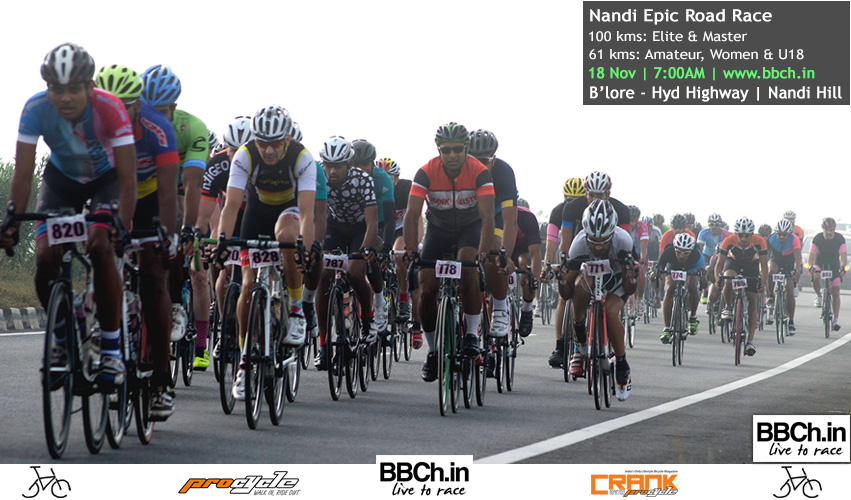
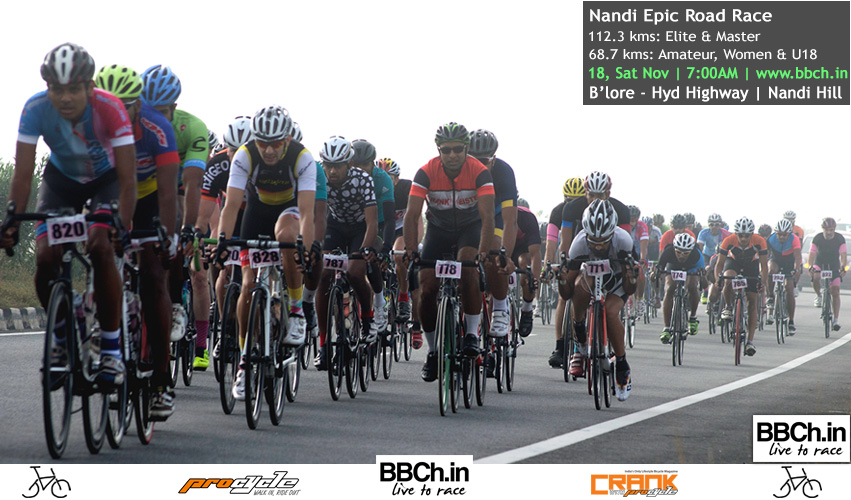
nandi update
nandi page update

Changed region(s): [[0.7027, 0.06, 1.0, 0.18]]

diff --git a/BBCh17Race10.htm b/BBCh17Race10.htm
@@ -169,7 +169,7 @@
                  <div class="clear">
                 </div>
                 <div align="center">
-                    <img alt="BBCh16:10 Nandi Banner" src="Images/BBCh17Race10Banner.jpg" style="border: 0" />
+                    <img alt="BBCh17:10 Nandi Banner" src="Images/BBCh17Race10Banner.jpg" style="border: 0" />
                 </div>
                 <br />
                 <div style="width: 48%; float: left">
@@ -182,15 +182,15 @@
                         <a href="https://goo.gl/maps/GBFAsT2ypyG2" target="_blank">Bangalore - Hyderabad Highway | Opp. HP Petrol Bunk & CCD</a><br />
                     <span class="CaptionText">Reporting Time : </span>6:00AM<br /><br />
 
-                    <span class="CaptionText">**Race Distance : </span>100km<br />
+                    <span class="CaptionText">**Race Distance : </span>112.3km<br />
                     <span class="CaptionText" style="padding-left: 40px">Categories :</span> Elite & Masters<br />
                     <span class="CaptionText" style="padding-left: 40px">Race Start :</span> 7:00AM<br />
-                    <span class="CaptionText" style="padding-left: 40px">Cut-off Time :</span> 11:00AM / 240 Mins<br /><br />
+                    <span class="CaptionText" style="padding-left: 40px">Cut-off Time :</span> 11:30AM / 270 Mins<br /><br />
 
-                    <span class="CaptionText">**Race Distance : </span>61km<br />
+                    <span class="CaptionText">**Race Distance : </span>68.7km<br />
                     <span class="CaptionText" style="padding-left: 40px">Categories :</span> U-18, Women & Amateur<br />
                     <span class="CaptionText" style="padding-left: 40px">Race Start :</span> 7:10AM<br />
-                    <span class="CaptionText" style="padding-left: 40px">Cut-off Time :</span> 11:00AM / 230 Mins<br /><br />
+                    <span class="CaptionText" style="padding-left: 40px">Cut-off Time :</span> 11:30AM / 260 Mins<br /><br />
                     
                     <span class="CaptionText">Race Fee : </span>Online -INR 500/- (NO Spot Registration)<br />
                     <br />
@@ -205,15 +205,15 @@
                 <!--<div style="width: 50%; float: left">
                     <span class="CaptionText2">Awesome Sponsors & Partners</span>
                     <img alt="Sponsor Banner" src="Images/BBCh16_Race06_SP_Road_Banner.gif" style="box-shadow: 0px 0px 10px #888888" />
-                </div>
-                 <div class="clear">-->
+                </div>-->
+                 <div class="clear">
                 </div>
                     <span style="letter-spacing: 1px">
                         <h5><b>Note: Registration will be closed by Wednesday, 15th (Midnight)</b></h5>
                     </span>
                     
                     <p>
-                    The last road race of the awesome Bangalore Bicycle Championships 2017 season is going with a Nandi Epic 100km & 61Km
+                    The last road race of the awesome Bangalore Bicycle Championships 2017 season is going with a Nandi Epic 112.3km & 68.7Km
                     Road Race on NH-7 Bangalore - Hydrabad Highway.<br />
                     <br />
                     Get your race face on people and get ready for a rocking at the Bangalore
@@ -238,7 +238,7 @@
                     <b>* Master (Open for Men and Women)<br /></b>
                         Participants age should be 40 years and above as on race day. Riders are free to 
                         participate in Elite/Amateur category if they wish to. <br />
-                        Masters category is for anybody who is above 35 years of age 
+                        Masters category is for anybody who is above 40 years of age 
                         irrespective of gender.<br />
 
                     <b>* Women<br /></b>
@@ -264,7 +264,7 @@
                 <br />
                 <p>
                     <span class="CaptionText">PRE-RACE DETAILS</span><br />
-                    The race will start at 7am. Get to the venue at 6am. Make sure you pre-register
+                    The race will start at 7AM. Get to the venue at 6AM. Make sure you pre-register
                     and digitally sign your indemnity form online, so you just have to collect your
                     bib numbers on race day. The start will be a little past the Airport toll
                     gate and finish will be a Nandi Hill Gate.
@@ -274,16 +274,16 @@
                     Race HQ is 3 km from the airport toll gate. Take a left from oppsite to Cafe Coffee Day and HP 
                     petrol bunk for Century Sports Village where bib collection, pre-race briefing and staging 
                     will take place. Cars can be parked in the service lane.<br />
-                    Podium will be at Nandi base by 11:30 AM.
+                    Podium will be at Nandi base by 12:00 PM.
                     </p>
                     <hr />
                 <p>
-                    <span class="CaptionText">100km Course Description</span><br /><br />
+                    <span class="CaptionText">112.3km Course Description</span><br /><br />
 
                     <span class="CaptionText">THE WAY OUT</span><br />
 
 
-                    The race rolls north on NH-7, past a couple intersections that will be marshaled. After 37 km of 
+                    The race rolls north on NH-7, past a couple intersections that will be marshaled. After 48.5 km of 
                     rolling terrain, some really long flyovers, exposed highway, and south-westerly crosswinds to deal 
                     with, the race "descends" 8 km, on straight and fast highway, to the U-turn point. The U-turn will 
                     be marshaled and will have a neutral feed station.
@@ -302,15 +302,15 @@
                     summit of Nandi II is steeper, includes some steep switchbacks and kicks to the finish!
                     <br /><br />
                     
-                    <span class="CaptionText">The Route : 100km</span><br />
+                    <span class="CaptionText">The Route : 112.3km</span><br />
                     Here’s the route for the Nandi Epic Road Race.<br />
-                    <a href="http://app.strava.com/activities/334527919" target="_blank">http://app.strava.com/activities/334527919
+                    <a href="https://connect.garmin.com/modern/activity/2155712058" target="_blank">https://connect.garmin.com/modern/activity/2155712058
                     </a>
                     <br />
                     <br />
                     <span align="center">
-                        <a href="http://app.strava.com/activities/334527919" target="_blank">
-                            <img alt="" src="Images/StravaNandi100kmRoute2015.jpg" style="border: 0" />
+                        <a href="https://connect.garmin.com/modern/activity/2155712058" target="_blank">
+                            <img alt="" src="Images/StravaNandi112kmRoute2017.jpg" style="border: 0" />
                         </a>
                     </span>
                     <br />
@@ -319,22 +319,21 @@
                 </p>
                     <hr />
                 <p>
-                    <span class="CaptionText">61 km Course Description</span><br /><br />
+                    <span class="CaptionText">68.7 km Course Description</span><br /><br />
 
                     <span class="CaptionText">THE WAY OUT</span><br />
 
-                    The race rolls north on NH-7, past a couple intersections that will be marshaled. After 23.5 km of 
+                    The race rolls north on NH-7, past a couple intersections that will be marshaled. After 25.9 km of 
                     rolling terrain, some really long flyovers, exposed highway, and south-westerly crosswinds to deal 
                     with, and fast highway, to the U-turn point. The U-turn will be marshaled with whistle and will have a neutral 
                     feed station.<br />
 
-                    This U-turn is 5 km into the Chikkaballapur bypass and U-turn point is a median gap. 
-                    Watch out for traffic.
+                    This U-turn is 7.2 km into the Chikkaballapur underpass and take U-turn point under the flyover/underpass.
 
                     <br /><br />
 
                     <span class="CaptionText">THE WAY BACK</span><br />
-                    The race continues to go south 17.8km until the marshaled right-hander that has you Nandi crossing 
+                    The race continues to go south 20.5km until the marshaled right-hander that has you Nandi crossing 
                     the highway and put riders on the approach to Nandi. Here, you have to deal with a block headwind, 
                     a railway crossing, a series of low speed humps and a false-flat all the way to the base of 
                     the climb.<br /><br />
@@ -345,11 +344,11 @@
                     summit of Nandi II is steeper, includes some steep switchbacks and kicks to the finish!
                     <br /><br />
 
-                    <span class="CaptionText">The Route : 61km</span><br />
+                    <span class="CaptionText">The Route : 68.7km</span><br />
                     Here’s the route for the Nandi Epic Road Race.<br />
-                    <!--<a href="http://app.strava.com/activities/334527919" target="_blank">http://app.strava.com/activities/334527919
+                    <a href="https://www.strava.com/activities/1239764132" target="_blank">https://www.strava.com/activities/1239764132
                     </a>
-                    <br />-->
+                    <br />
                     <br />
                     <span align="center">
                         <a href="#" target="_blank">
@@ -445,38 +444,38 @@
                     <tr>
                         <td colspan="2" style="padding-left: 10px">
                             <span class="CaptionText">
-                            61km | Points of caution from start-point for Amateur, Women & U-18</span>
+                            68.7km | Points of caution from start-point for Amateur, Women & U-18</span>
                         </td>
                     </tr>
                     <tr>
                         <td colspan="2" style="line-height: 150%">
                             
                             The race rolls north on NH-7, past a couple intersections that will be marshaled. 
-                            After 23.5 km of rolling terrain the U-turn will be marshaled and will have a neutral feed station for 
+                            After 25.9 km of rolling terrain the U-turn will be marshaled and will have a neutral feed station for 
                             Amateur, Women and U-18.<br /><br />
 
                             <span class="CaptionText">
-                            @ 23.5km The U-turn will be marshaled and will have a neutral feed station.</span><br />
+                            @ 25.9km The U-turn will be marshaled and will have a neutral feed station.</span><br />
                             <div style="width: 350px; float: left">
                             <img alt="" src="Images/RaceInfo02_006.jpg" style="border: 0" />&nbsp;&nbsp;&nbsp;&nbsp;
                             </div>
                             <div style="width: 350px; float: left">
                             </div>
                             <div class="clear"></div>
-                            @ 41.38km Nandi Hill crossing with traffic crossing, take right.<br /> 
-                            @ 50.3km take left for Nandi base. <br />
-                            @ 54.3km Nandi base. <br />
+                            @ 48 km Nandi Hill crossing with traffic crossing, take right.<br /> 
+                            @ 58 km take left for Nandi base. <br />
+                            @ 61.4 km Nandi base. <br />
                             <br />
 
                             <span class="CaptionText">
-                            @ 61km - Finish Line</span><br />
+                            @ 68.7 km - Finish Line</span><br />
                             <div align="left" style="width: 800px; float: left; padding-left: 50px">
                             <img alt="" src="Images/RaceInfo05_004.jpg" style="border: 0" />
                             </div>
                             <div class="clear"></div><br />
 
                             <span class="CaptionText">
-                            @ 11:30 O'Clock - Podium</span><br />
+                            @ 12:00 O'Clock - Podium</span><br />
                             <div align="left" style="width: 800px; float: left; padding-left: 50px">
                             <img alt="" src="Images/RaceInfo02_008.jpg" style="border: 0" />
                             </div>
@@ -486,18 +485,18 @@
                     <tr>
                         <td colspan="2" style="padding-left: 10px">
                             <span class="CaptionText">
-                            100km | Points of caution from start-point for Elite & Masters</span>
+                            112.3km | Points of caution from start-point for Elite & Masters</span>
                         </td>
                     </tr>
                     <tr>
                         <td colspan="2" style="line-height: 150%">
-                            The race rolls north on NH-7, past a couple intersections that will be marshaled. After 37 km of 
+                            The race rolls north on NH-7, past a couple intersections that will be marshaled. After 40 km of 
                             rolling terrain, some really long flyovers, exposed highway, and south-westerly crosswinds to deal 
                             with, the race "descends" 8 km, on straight and fast highway, to the U-turn point. The U-turn will 
                             be marshaled and will have a neutral feed station.<br /><br />
                             
                             <span class="CaptionText">
-                            @ 45km The U-turn will be marshaled and will have a neutral feed station.</span><br />
+                            @ 48.5km The U-turn will be marshaled and will have a neutral feed station.</span><br />
                             <div style="width: 350px; float: left">
                             <img alt="" src="Images/RaceInfo02_006.jpg" style="border: 0" />&nbsp;&nbsp;&nbsp;&nbsp;
                             </div>
@@ -505,20 +504,20 @@
                             
                             </div>
                             <div class="clear"></div>
-                            @ 78.1km Nandi Hill crossing with traffic crossing from left.<br /> 
-                            @ 87.7km take left for Nandi base. <br />
-                            @ 91.6km Nandi base. <br />
+                            @ 91 km Nandi Hill crossing with traffic crossing from left.<br /> 
+                            @ 101 km take left for Nandi base. <br />
+                            @ 105 km Nandi base. <br />
                             <br />
 
                             <span class="CaptionText">
-                            @ 99km - Finish Line</span><br />
+                            @ 112.3km - Finish Line</span><br />
                             <div align="left" style="width: 800px; float: left; padding-left: 50px">
                             <img alt="" src="Images/RaceInfo05_004.jpg" style="border: 0" />
                             </div>
                             <div class="clear"></div><br />
 
                             <span class="CaptionText">
-                            @ 11:30 O'Clock - Podium</span><br />
+                            @ 12:00 O'Clock - Podium</span><br />
                             <div align="left" style="width: 800px; float: left; padding-left: 50px">
                             <img alt="" src="Images/RaceInfo02_008.jpg" style="border: 0" />
                             </div>

diff --git a/index.html b/index.html
@@ -201,18 +201,6 @@
                 </div>
                 <!-- Each child div in #showcase represents a slide -->
 
-                <div class="showcase-slide">
-                    <!-- Put the slide content in a div with the class .showcase-content. -->
-                    <div class="showcase-content">
-                        <img src="Images/BBCh17Banner_Race09.jpg" alt="2" />
-                    </div>
-                    <div class="showcase-caption">
-                        MTB Race (Dirt)<br />
-                        XC Race<br /> (2nd Saturday of the Oct Month)
-                        October 8th | Yalahannka - Avalahalli Forest
-                    </div>
-                </div>
-
                 
                 <div class="showcase-slide">
                     <div class="showcase-content">
@@ -323,6 +311,18 @@
                     </div>
                 </div>
 
+                <div class="showcase-slide">
+                    <!-- Put the slide content in a div with the class .showcase-content. -->
+                    <div class="showcase-content">
+                        <img src="Images/BBCh17Banner_Race09.jpg" alt="2" />
+                    </div>
+                    <div class="showcase-caption">
+                        MTB Race (Dirt)<br />
+                        XC Race<br /> (2nd Saturday of the Oct Month)
+                        October 8th | Yalahannka - Avalahalli Forest
+                    </div>
+                </div>
+
                 <!--<div class="showcase-slide">
                     <div class="showcase-content">
                         <img src="style/images/RoadRaceNandiCircuit.jpg" alt="2" />
@@ -402,7 +402,7 @@
                                     </tr>
                                     <tr>
                                         <td style="text-align: center; font-size: 15px">
-                                            <b>29th, October 2017</b>
+                                            <b>05th, November 2017</b>
                                         </td>
                                     </tr>
                                 </table>
@@ -421,46 +421,34 @@
             <div class="two-third">
                 
                 
-                <h4>UPCOMING RACE : <a href="BBCh17Race09.htm">Cross-Country Olympic (XCO) Race</a></h4>
+                <h4>UPCOMING RACE : <a href="BBCh17Race10.htm">Nandi Epic Road Race</a></h4>
                 
                 <p>
                     <br />
-                    <span class="CaptionText">When : </span>Sunday, 08th October 2017<br />
-                    <span class="CaptionText">Where : </span><a href="https://goo.gl/maps/iMMdcjejA7z" target=_blank>Avalahalli State Forest, Yelahanka (500 Mtr ahead of Presidency School)</a><br />
-                    <span class="CaptionText">Reporting Time : </span>6:00AM<br />
-                    <span class="CaptionText">Lap Distance : </span>5.4km<br /><br />
+                    <span class="CaptionText">When : </span>Saturday, 18th November 2017<br />
+                    <span class="CaptionText">Registration and Start Point : </span>
+                        <a href="https://goo.gl/maps/CXpy7S3HiFP2" target="_blank">Century Sports Village, IVC Road, Blr-Hyd Highway</a><br />
+                    <span class="CaptionText">Race rolling start till here : </span>
+                        <a href="https://goo.gl/maps/GBFAsT2ypyG2" target="_blank">Bangalore - Hyderabad Highway | Opp. HP Petrol Bunk & CCD</a><br />
+                    <span class="CaptionText">Reporting Time : </span>6:00AM<br /><br />
 
-                    <span class="CaptionText">-: Elite :-</span><br />
-                    Race Start   : 7:30AM<br />
-                    Laps     : 6<br />
+                    <span class="CaptionText">**Race Distance : </span>112.3km<br />
+                    <span class="CaptionText" style="padding-left: 40px">Categories :</span> Elite & Masters<br />
+                    <span class="CaptionText" style="padding-left: 40px">Race Start :</span> 7:00AM<br />
+                    <span class="CaptionText" style="padding-left: 40px">Cut-off Time :</span> 11:30AM / 270 Mins<br /><br />
 
-                    <span class="CaptionText">-: Amateur :-</span><br />
-                    Race Start   : 7:35AM<br />
-                    Laps     : 5<br />
-
-                    <span class="CaptionText">-: U-18 & Women :-</span><br />
-                    Race Start   : 7:40AM<br />
-                    Laps     : 4<br />
-
-                    <span class="CaptionText">-: KIDS FUN RIDE :-</span><br />
-                    Race Start   : 9:00AM<br />
-                    Laps     : Half<br />
+                    <span class="CaptionText">**Race Distance : </span>68.7km<br />
+                    <span class="CaptionText" style="padding-left: 40px">Categories :</span> U-18, Women & Amateur<br />
+                    <span class="CaptionText" style="padding-left: 40px">Race Start :</span> 7:10AM<br />
+                    <span class="CaptionText" style="padding-left: 40px">Cut-off Time :</span> 11:30AM / 260 Mins<br /><br />
                     
-                    
-                    <span class="CaptionText">Cut-off Time for all : </span>9:45AM<br /><br />
-
-                    <span class="CaptionText">Note : </span>
-                    We need minimum registration for Elite & Amateur Categories. In case of lesser 
-                    number of registrations into Elite & Amateur, then both categories will be merged 
-                    into Open Men.
-                    <br /><br />
-
+                    <span class="CaptionText">Race Fee : </span>Online -INR 500/- (NO Spot Registration)<br />
+                    <br />
                     <span class="CaptionText">FB Event : </span>
-                    <a href="https://www.facebook.com/events/121246931870752/" target=_blank>
-                    https://www.facebook.com/events/121246931870752/</a><br /><br />
+                    <a href="https://www.facebook.com/events/119774882069651/" target="_blank">https://www.facebook.com/events/119774882069651/</a><br />
 
                     <br />
-                    <a href="https://in.explara.com/e/bbch17-race09" target="_blank">Register To Race</a>
+                    <a href="https://in.explara.com/e/bbch16-race10" target="_blank">Register To Race</a>
                     |&nbsp; <a href="Volunteers.htm">Volunteer Signup</a><br />
                 </p>
 
@@ -518,7 +506,7 @@
             </div>
             <br /><br /><br />
             <div>
-                <iframe src="https://in.explara.com/widget-new/bbch17-race09" frameborder="0" style="width: 100%"
+                <iframe src="https://in.explara.com/widget-new/bbch17-race10" frameborder="0" style="width: 100%"
                     height="900"></iframe>
             </div>
             <br /><br />

diff --git a/ParticipantsList.htm b/ParticipantsList.htm
@@ -182,7 +182,7 @@
                 </div>
                 <div align="center">
                     <div align="center">
-                        <iframe src="https://in.explara.com/em/event/attendee/attendee-list-widget/eid/283878"
+                        <iframe src="https://in.explara.com/em/event/attendee/attendee-list-widget/eid/286292"
                             width="800px" height="355px"></iframe>
                     </div>
                 </div>
